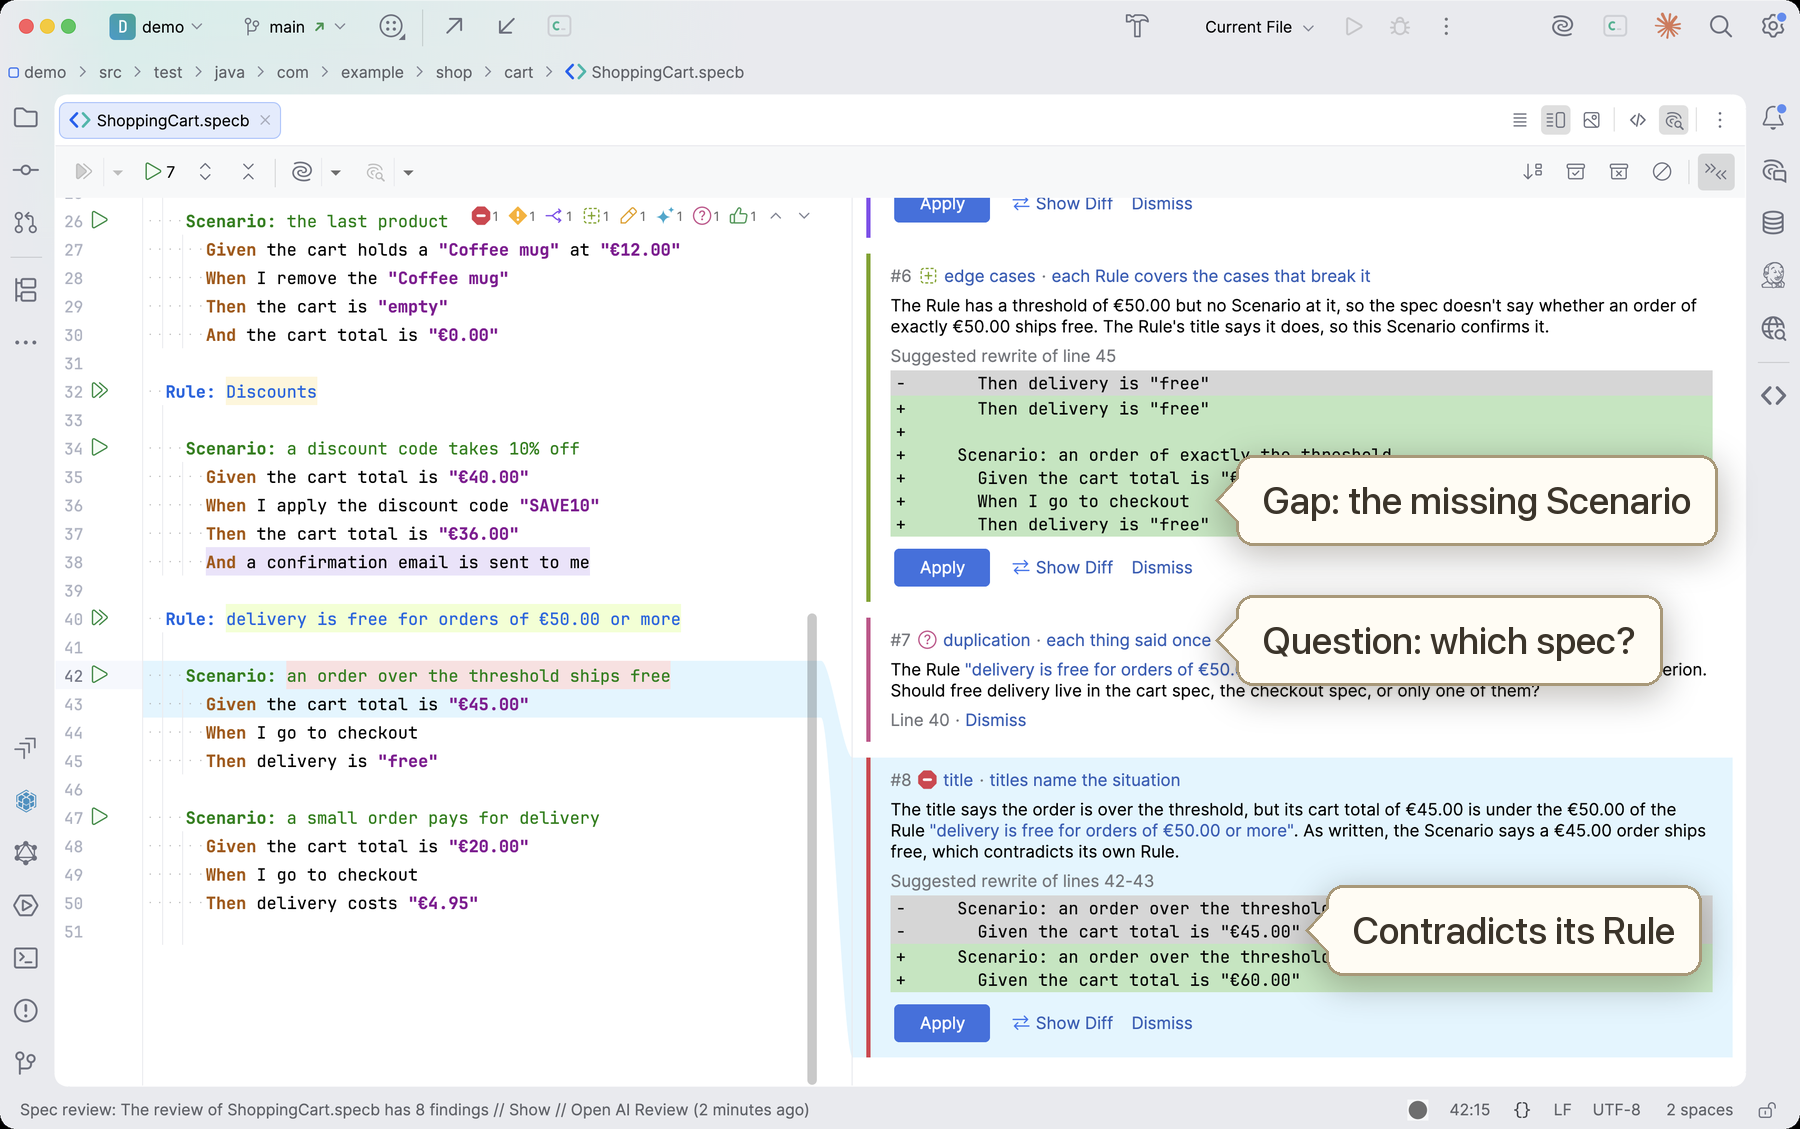
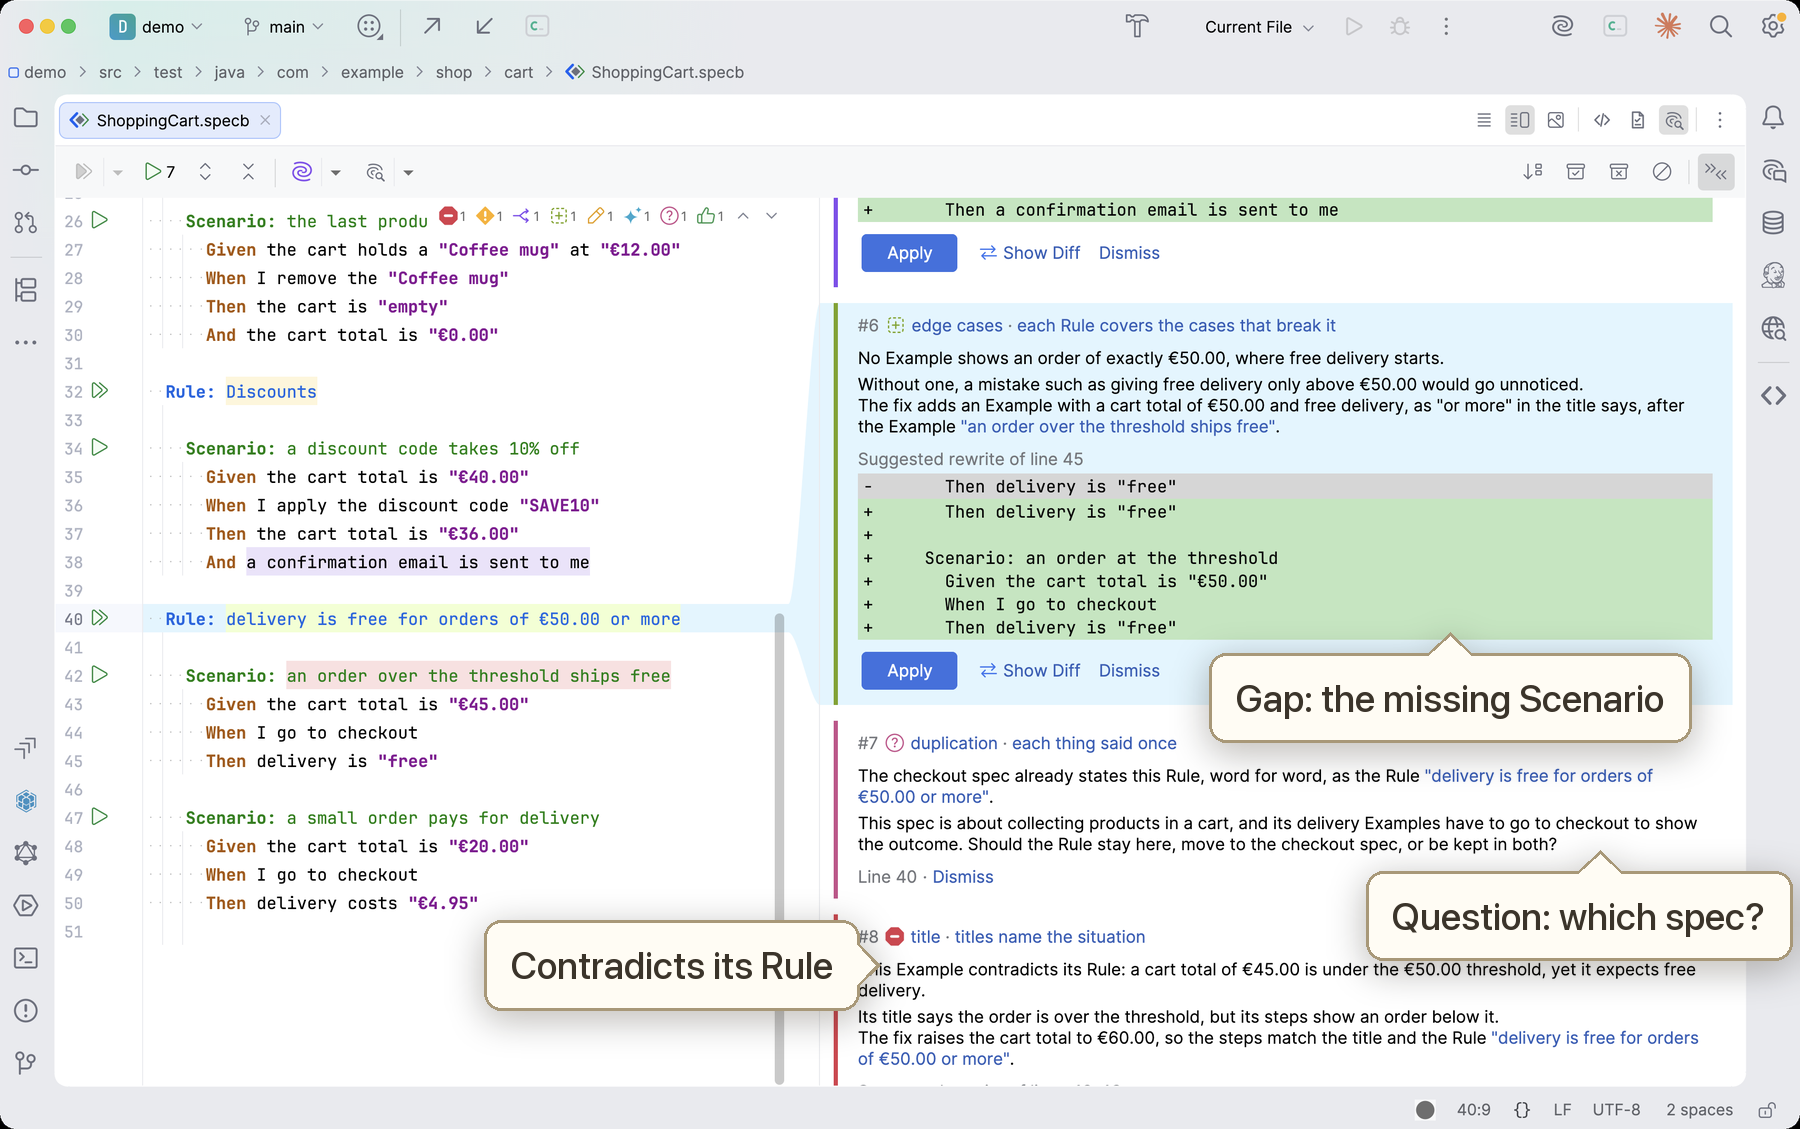
refactoring

diff --git a/README.md b/README.md
@@ -7,7 +7,7 @@ guidelines, which you can start from the starter guidelines it offers. The findi
 IntelliJ IDEA, where you can apply or dismiss them, or go through them with the agent in the same session.
 [All skills](#skills) are listed below.
 
-https://github.com/user-attachments/assets/edad95dc-83bb-4d54-b482-964428c67f98
+https://github.com/user-attachments/assets/0d52355f-a508-4166-817b-c7bbf325c2d1
 
 ## Requirements
 
@@ -58,7 +58,7 @@ eight kinds, from most to least serious: **blocker**, **issue**, **split**, **ga
 findings by number in the chat. Each kind has its own colour under **Settings › Editor › Color Scheme › General ›
 Errors and Warnings** ("SpecBinder review: …") and its own count in the editor's top-right problems widget, and
 its own group in the Problems tool window. Each also gets a card in the spec's **AI Review** tab, beside the spec
-in split view, linked to its text. The tab is off until you turn it on under **Settings › SpecBinder › Split
+in split view, linked to its text. The tab is on unless you turn it off under **Settings › SpecBinder › Split
 view**. From there you can:
 
 - ask the agent to explain or fix a finding ("fix #2 and #3"), in the chat;
@@ -68,14 +68,16 @@ view**. From there you can:
 
 ![A split finding's card, linked to the two lines it is about, with a fix that moves the unrelated outcome into a Rule of its own](docs/images/review-split.png)
 
-![Applying a fix rewrites the spec in one click and the blocker disappears from the counts](docs/images/review-applied.png)
+![Applying a gap's fix adds the missing Scenario to the spec in one click, and the gap disappears from the counts](docs/images/review-applied.png)
 
-The **Review This Spec** button on the spec's toolbar sends the review command to the spec's open Claude Code
-session in one click; with another agent, ask for the review in its session. The button's arrow, and a toggle per
-kind on the AI Review tab's toolbar, list the eight kinds with a tick each. Untick a kind to leave it out of the
-spec's next review and set its current findings aside; tick it again to bring them back. **Check All** and
-**Check None** pick quickly, and a spec you haven't chosen for starts from your last selection. Naming kinds in
-the request itself ("review Cart.specb for blockers and issues only") overrides the ticks for that review.
+The **Review This Spec** button on the spec's toolbar asks for a review in one click: it sends the review command
+to the spec's open Claude Code session, or starts one for the spec when none is open. With another agent, ask for
+the review in its session. When the review is ready, **Show** on the IDE's notification opens the AI Review tab at
+the first finding. The button's arrow, and a toggle per kind on the AI Review tab's toolbar, list the eight kinds
+with a tick each. Untick a kind to leave it out of the spec's next review and set its current findings aside; tick
+it again to bring them back. **Check All** and **Check None** pick quickly, and a spec you haven't chosen for
+starts from your last selection. Naming kinds in the request itself ("review Cart.specb for blockers and issues
+only") overrides the ticks for that review.
 
 ![The Review Checks menu, listing the eight kinds of finding, each with a tick](docs/images/review-kinds.png)
 

diff --git a/skills/review-spec/SKILL.md b/skills/review-spec/SKILL.md
@@ -162,7 +162,7 @@ Don't fall back to reviewing in the chat without the tools, unless the author as
        "quote": "I click the Save button",
        "category": "implementation-detail",
        "kind": "issue",
-       "message": "Names a UI control instead of what the user wants to achieve.\n\nThe fix says what the user does instead: they save the invoice.",
+       "message": "Names a UI control instead of what the user wants to achieve.\nThe fix says what the user does instead: they save the invoice.",
        "rewrite": [{"text": "I save the invoice"}],
        "check": {
          "path": ".specbinder/review-guidelines/implementation-detail.md",
@@ -186,13 +186,12 @@ Don't fall back to reviewing in the chat without the tools, unless the author as
      on, and `text` that line copied **verbatim** from `Flag` on, its kind in brackets included. Give it on every
      finding. A finding whose check is not on that line of that file is turned down.
    - `message` says what is wrong, in up to three short sentences, and then, when the finding has a fix, what the
-     fix does, in one or two more. Each sentence starts with a capital letter, as it is shown on its own in the
-     IDE. Put the point in its first sentence: the IDE shows that sentence as the finding's lead, and any sentences
-     after it as detail under it. Always start the sentences about the fix on a paragraph of their own, after a
-     blank line (`\n\n`), so the author can find them at a glance. A message with a blank line in it is cut only
-     at its blank lines, its first paragraph leading, so end the lead with one too:
-     `"Lead.\n\nMore about the problem.\n\nThe fix …"`. To lead with more than one sentence, put them all
-     before that first blank line. Write it as [Writing for the author](#writing-for-the-author) says.
+     fix does, in one or two more. A line break (`\n`) starts a new paragraph, and only a line break does: the
+     IDE shows the first paragraph as the finding's lead and each of the others on its own under it, so never
+     wrap a paragraph's lines yourself. Put the point in the lead, which can hold more than one sentence, and
+     start the sentences about the fix on a line of their own, so the author can find them at a glance:
+     `"Lead.\nMore about the problem.\nThe fix …"`. Write it as [Writing for the author](#writing-for-the-author)
+     says.
    - Every finding proposes a fix, `rewrite`: always a list of edits, each with a `text` that is the new wording.
      The exceptions are `question` and `praise` findings, which have none, and a finding about the spec file's
      name, whose fix is a `rename` (see below).

diff --git a/demo/README.md b/demo/README.md
@@ -3,18 +3,16 @@
 A small shop project for trying the `review-spec` skill. Its cart spec,
 `src/test/java/com/example/shop/cart/ShoppingCart.specb`, is written with a deliberate flaw for each kind of
 finding, so one review shows all eight: blocker, issue, split, gap, suggestion, polish, question and praise. The
-checkout spec beside it is there for the question finding to point at. The screenshots in the plugin's README
-were taken from this project.
+checkout spec beside it is there for the question finding to point at. The screenshots and the screencast in the
+plugin's README were taken from this project.
 
 ## Try it
 
 1. Open this `demo` folder as a project of its own in IntelliJ IDEA, with the SpecBinder plugin installed and your
    agent connected to the IDE's MCP server (see the plugin's README).
 2. Open `ShoppingCart.specb` and ask your agent to review it, or click **Review This Spec** on the spec's toolbar.
-3. Turn on the **AI Review** tab under **Settings › SpecBinder › Split view** to see each finding as a card.
-
-Open the demo on its own, not inside a checkout of the whole plugin repository. When both are open in the IDE,
-the spec belongs to two open projects and the review can't tell which one to publish to.
+3. When the review is ready, click **Show** on the IDE's notification to see each finding as a card in the spec's
+   **AI Review** tab.
 
 ## Guidelines
 

diff --git a/CHANGELOG.md b/CHANGELOG.md
@@ -35,7 +35,7 @@ and this project adheres to [Semantic Versioning](https://semver.org).
   `When` isn't the capability the spec is about, a `Given` the outcome doesn't depend on, a Rule whose many
   Examples vary in more than one way, and sibling Example titles that don't tell the Examples apart.
 - **⚠ BREAKING:** Each finding now also gets a card in the spec's AI Review tab in IntelliJ IDEA, with its
-  proposed fix as a diff and buttons to apply or dismiss it. The tab is off until you turn it on under
+  proposed fix as a diff and buttons to apply or dismiss it. The tab is on unless you turn it off under
   Settings › SpecBinder › Split view. Needs SpecBinder IntelliJ plugin 2026.20.0 or later.
 - Every finding is one of eight kinds: blocker, issue, split, gap, suggestion, polish, question or praise. Each
   kind has its own look, count and Problems view group in IntelliJ IDEA. The starter guidelines give each category a
